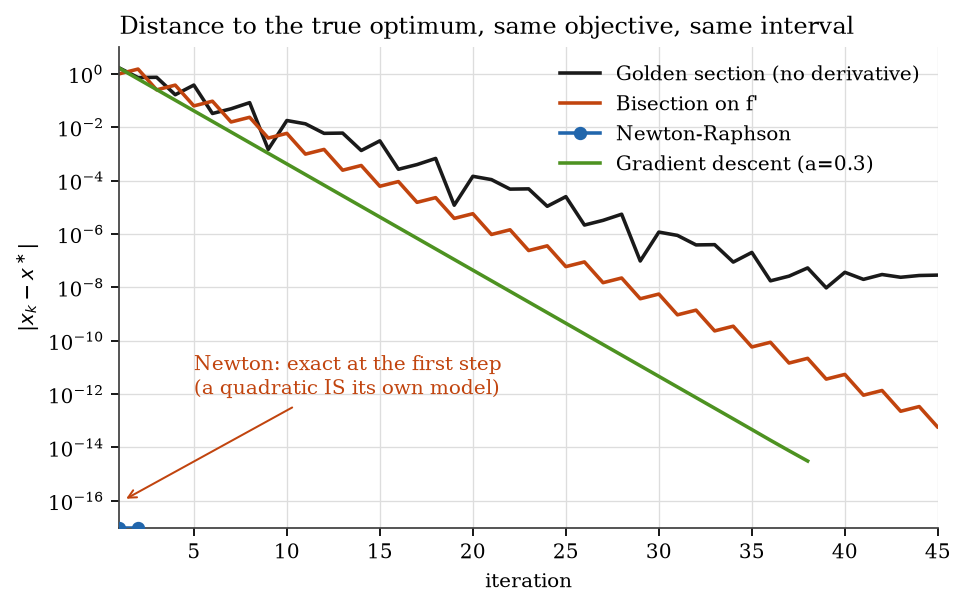
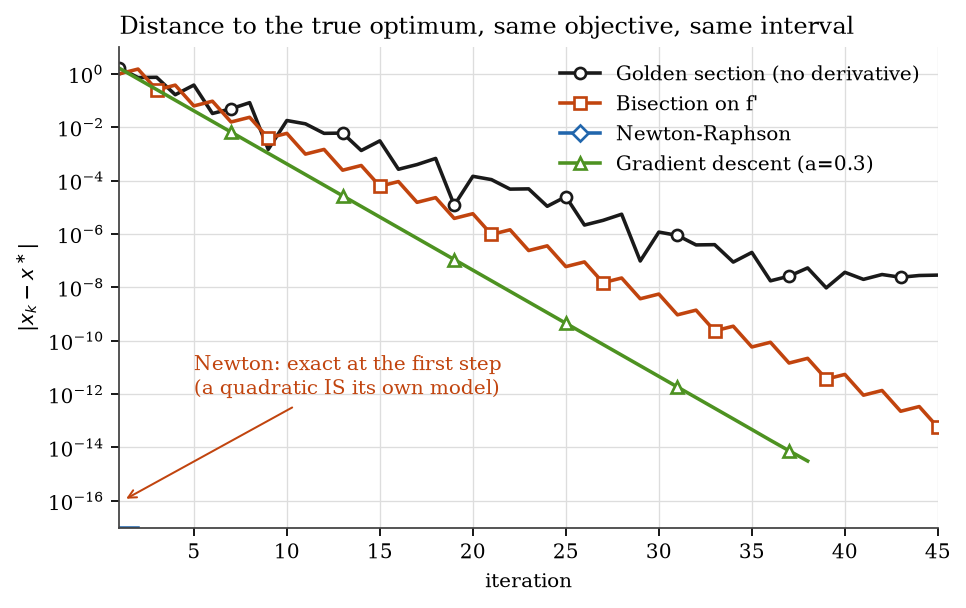
docs: give every series its own marker shape (#4)
Colour alone fails three ways: coincident curves become one line, the
figure dies in black-and-white print, and roughly one man in twelve cannot
separate the red from the green. Marker shapes fix all three at once, and
staggering markevery per series means overlapping curves show both shapes
rather than one hiding the other.

diff --git a/scripts/make_figures.py b/scripts/make_figures.py
@@ -21,6 +21,9 @@ from numopt import Polynomial, bisection, golden_section, gradient_descent, newt
 FIGURES = Path(__file__).resolve().parent.parent / "figures"
 INK, ACCENT, MUTED = "#1a1a1a", "#c1440e", "#8a8a8a"
 PALETTE = ["#1a1a1a", "#c1440e", "#2166ac", "#4d9221"]
+# Distinct marker shapes so coincident curves stay tellable apart, and so the
+# figures survive black-and-white printing and colour-blind reading.
+MARKERS = ["o", "s", "D", "^"]
 
 plt.rcParams.update(
     {
@@ -69,12 +72,14 @@ def convergence_rates() -> None:
     }
 
     figure, axes = plt.subplots(figsize=(6.6, 3.9))
-    for (label, result), colour in zip(runs.items(), PALETTE, strict=True):
+    for offset, ((label, result), colour, marker) in enumerate(
+        zip(runs.items(), PALETTE, MARKERS, strict=True)
+    ):
         errors = [max(abs(step.x - 4.0), 1e-17) for step in result.history]
-        marker = "o" if "Newton" in label else None
         axes.semilogy(
-            range(1, len(errors) + 1), errors, label=label, color=colour,
-            linewidth=1.6, marker=marker, markersize=5, zorder=4 if marker else 2,
+            range(1, len(errors) + 1), errors, label=label, color=colour, linewidth=1.6,
+            marker=marker, markersize=5, markerfacecolor="white", markeredgewidth=1.2,
+            markevery=(offset * 2, 6),
         )
 
     axes.set_xlabel("iteration")
@@ -136,13 +141,17 @@ def step_size_regimes() -> None:
     ]
 
     figure, axes = plt.subplots(figsize=(6.6, 3.6))
-    for rate, label, colour in regimes:
+    for offset, (rate, label, colour) in enumerate(regimes):
         result = gradient_descent(
             objective, derivative, 0.0, learning_rate=rate, tolerance=0.0, max_iterations=40
         )
         errors = [max(abs(step.x - 3.0), 1e-17) for step in result.history]
         style = "--" if not result.converged and rate > 1.0 else "-"
-        axes.semilogy(range(1, len(errors) + 1), errors, style, color=colour, linewidth=1.6, label=f"a={rate}: {label}")
+        axes.semilogy(
+            range(1, len(errors) + 1), errors, style, color=colour, linewidth=1.6,
+            marker=MARKERS[offset], markersize=5, markerfacecolor="white",
+            markeredgewidth=1.2, markevery=(offset * 2, 6), label=f"a={rate}: {label}",
+        )
 
     axes.set_xlabel("iteration")
     axes.set_ylabel(r"$|x_k - x^\ast|$")
